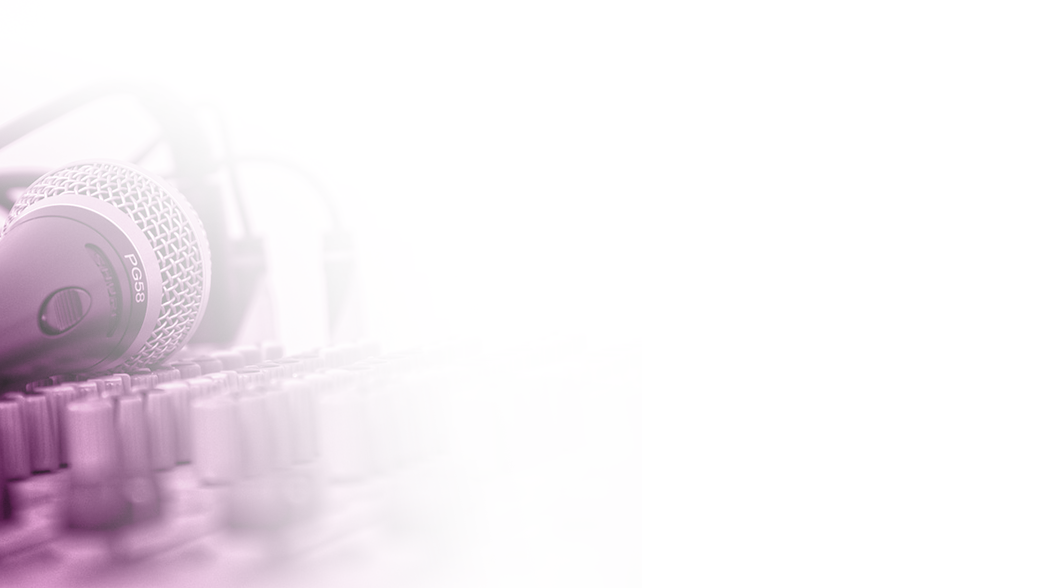
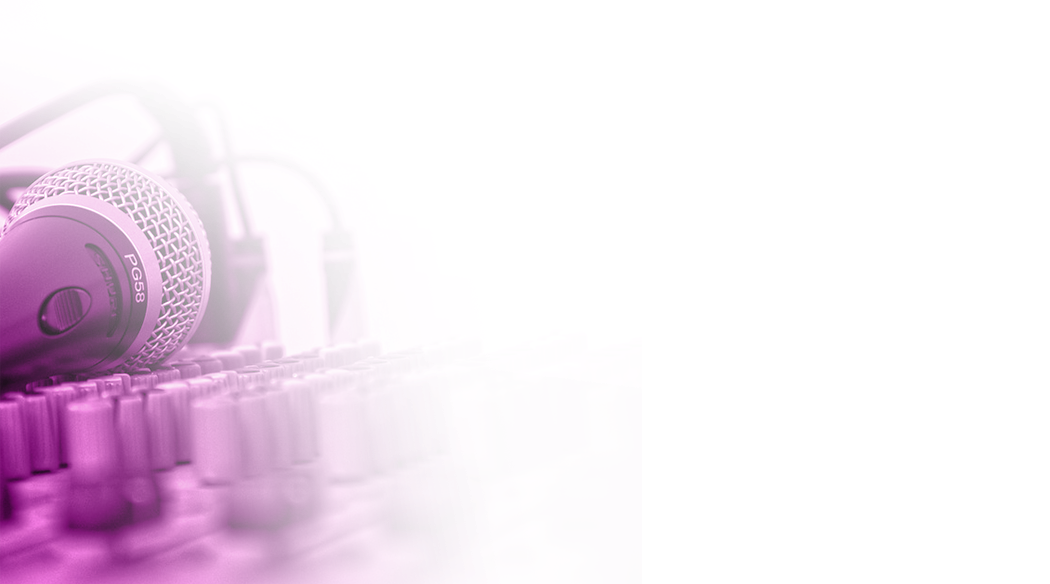
Home concluida

Changed region(s): [[0.0, 0.2774, 0.3352, 1.0], [0.0, 0.2158, 0.0305, 0.2466]]

diff --git a/index.html b/index.html
@@ -24,51 +24,78 @@
                 <div class="py-2 sticky-top flex-grow-1">
                     <div class="nav flex-sm-column ">
                         <!-- <a href="" class="nav-link d-none d-sm-inline">Silva Bittencourt</a> -->
-                        <a href="" class="nav-link text-center">?</a>
-                        <a href="#home" class="nav-link text-center"> &#9835;</a>
-                        <a href="#teste" class="nav-link text-center"> &#9835;</a>
-                        <a href="#teste" class="nav-link text-center"> &#9835;</a>
-                        <a href="#teste" class="nav-link text-center"> &#9835;</a>
-                        <a href="#teste" class="nav-link text-center"> &#9835;</a>
+                        <a href="" class="nav-link text-center hoverMenu">? <span class="textoMenu"><br> Perguntas <br> Frequentes </span> </a>
+                        <a href="#home" class="nav-link text-center"> <img src="img/icon_home.png" class="img-fluid" alt=""></a>
+                        <a href="#teste" class="nav-link text-center"> <img src="img/icon_cursos.png" class="img-fluid" alt=""></a>
+                        <a href="#teste" class="nav-link text-center"> <img src="img/icon_bio.png" class="img-fluid" alt=""></a>
+                        <a href="#teste" class="nav-link text-center"> <img src="img/icon_depoimentos.png" class="img-fluid" alt=""></a>
+                        <a href="#teste" class="nav-link text-center"> <img src="img/youtube_icon.png" class="img-fluid" alt=""></a>
+                        <a href="#teste" class="nav-link text-center"> <img src="img/icon_contato.png" class="img-fluid" alt=""></a>
                     </div>
                 </div>
             </div>
-            
+            <!-- Essa col abaixo representa a pagina completa sem o menu -->
             <div class="col" >
-                <!-- Essa div é só pra dar um espaço em branco -->
-                <div class="row " id="main">
+                <!-- Referente a pagina inicial -->
+                <div class="row" id="main" >
                     
-                    <div class="col align-self-end" >
-                        
-                        <div class="row" id="home">
-                            <div class="col-sm-11 offset-sm-2">
-                                Silvia Bittencourt
+                        <div class="row ">
+                    
+                            <div class="col align-self-center">
+                                
+                                <div class="row AjustePosicao" id="home">
+                                    <div class="col-sm-11 offset-sm-2">
+                                        &nbsp;
+                                    </div>
+                                </div>
+                                <div class="row" id="home">
+                                    <div class="col-sm-11 offset-sm-3">
+                                        <img src="img/silvia_logo.png" class="img-fluid" alt="">
+                                    </div>
+                                </div>
+                                <div class="row AjustePosicao" id="home">
+                                    <div class="col-sm-11 offset-sm-2">
+                                        &nbsp;
+                                    </div>
+                                </div>
+                                <div class="row " >
+                                    <div class="col-sm-10 offset-sm-3 textoInicial text-center">
+                                        O melhor curso de canto para Youtubers de todo o Brasil
+                                    </div>
+                                </div>
+                                <div class="row">
+                                    <div class="col-sm-11 offset-sm-3">
+                                        <a href="">
+                                            <img  src="img/bot_inscreva.png" class="img-fluid" alt="Primeiro mês grátis, inscreva-se agora" title="Primeiro mês grátis, inscreva-se agora">
+                                        </a> 
+                                            
+                                    </div>
+                                </div>
+                                <div class="row " >
+                                    <div class="col-sm-10 offset-sm-3 textoBaixoBotao text-center">
+                                        Você pode cancelar online e sem custo durante o primeiro mês.
+                                    </div>
+                                </div>
+                                
                             </div>
+                            
                         </div>
-                       
-                        <div class="row">
-                            <div class="col-sm-11 offset-sm-2">
-                                O MELHOR CURSO DE CANTO PARA YOUTUBERS DO BRASIL
+                        <div class="row redeSocial">
+                            <div class="col align-self-end">
+                                
+                                <div class="row" >
+                                    <div class="col-sm-5 offset-sm-9 text-white">
+                                        <img src="img/youtube_icon.png" class="img-fluid rede_social_icon" alt="">
+                                        <img src="img/facebook_icon.png" class="img-fluid rede_social_icon" alt="">
+                                        <img src="img/instagram_icon.png" class="img-fluid rede_social_icon" alt="">
+                                        <img src="img/twitter_icon.png" class="img-fluid rede_social_icon" alt="">
+                                    </div>
+                                </div>
+                                
                             </div>
+                            
                         </div>
-                        <div class="row">
-                            <div class="col-sm-11 offset-sm-2">
-                                    Lorem ipsum dolor sit amet, consectetur adipiscing elit,
-                                    sed do eiusmod tempor incididunt ut labore et dolore magna 
-                                    aliqua. Ut enim ad minim veniam, quis nostrud 
-                                    
-                            </div>
-                        </div>
-                        
-                        
-                    </div>
-                    <div class="col align-self-end" >
-                        
-                        
-                        <div class="row">
-                            <div class="col-sm-4 offset-sm-8 text-white">You Face Ins Twit</div>
-                        </div>
-                    </div>
+                            
                 </div>
                 
 

diff --git a/css/style.css b/css/style.css
@@ -3,7 +3,7 @@
 	--fontMedium:		"Roboto Medium";
 	--fontLight:		"Roboto Light";
     
-    --barraLateral:     #963fe6;
+    --barraLateral:     #ae04af;
     --backgroundEscuro: #c154d3;
 	--backgroundClaro:  #e5a1f0;
     --texto:      		#a9559c;
@@ -27,21 +27,69 @@ html, body{
   background-color: var(--barraLateral);
   /* max-width: 100px; */
 }
+.textoInicial{
+  font-family:  var(--fontBold);
+  color: #edf0f4;
+  font-size: 19pt;
+
+}
+.textoBaixoBotao{
+  font-family:  var(--fontBold);
+  color: #edf0f4;
+  font-size: 14pt;
+
+}
+.textoMenu{
+  font-family:  var(--fontBold);
+  color:  #edf0f4;
+  font-size: 10pt;
+}
+
+.textoMenu:hover{
+  color:  #edf0f4;
+}
+
+.hoverMenu:hover{
+  color:  #edf0f4;
+}
 
 #main{
 	min-height: 100vh;
 }
 
+.homeClass{
+	min-height: 100vh;
+}
+.redeSocial{
+  width: 100%;
+  /* height: 20%; */
+  margin-bottom: 30px;
+}
+.rede_social_icon{
+  margin: 10px;
+}
+
 #main{
-	  background-image: url('../img/imagem_topo.png');
+	  background-image: url('../img/imagem_topo_2.png');
     background-size: cover;
     background-repeat: no-repeat;
 }
 
-.nav-link{color:yellow;font-size:1.3em;}
+.nav-link{
+  color:yellow;
+  /* font-size:1.3em; */
+  margin-right: 0px;
+}
+a.nav-link:hover{
+  background-color: #980a99;
+}
+.nav-link img{
+  height: auto;
+  width: 30px;
+}
 
 .AjustePosicao{
-  height: 0;
+  height: 10vh;
 }
 
 
@@ -50,7 +98,7 @@ html, body{
 @media (min-width: 560px) {
  
   .AjustePosicao{
-    height: 200px;
+    height: 20vh;
   }
 }
 /* Dando um espacinho entre os links do menu. */
